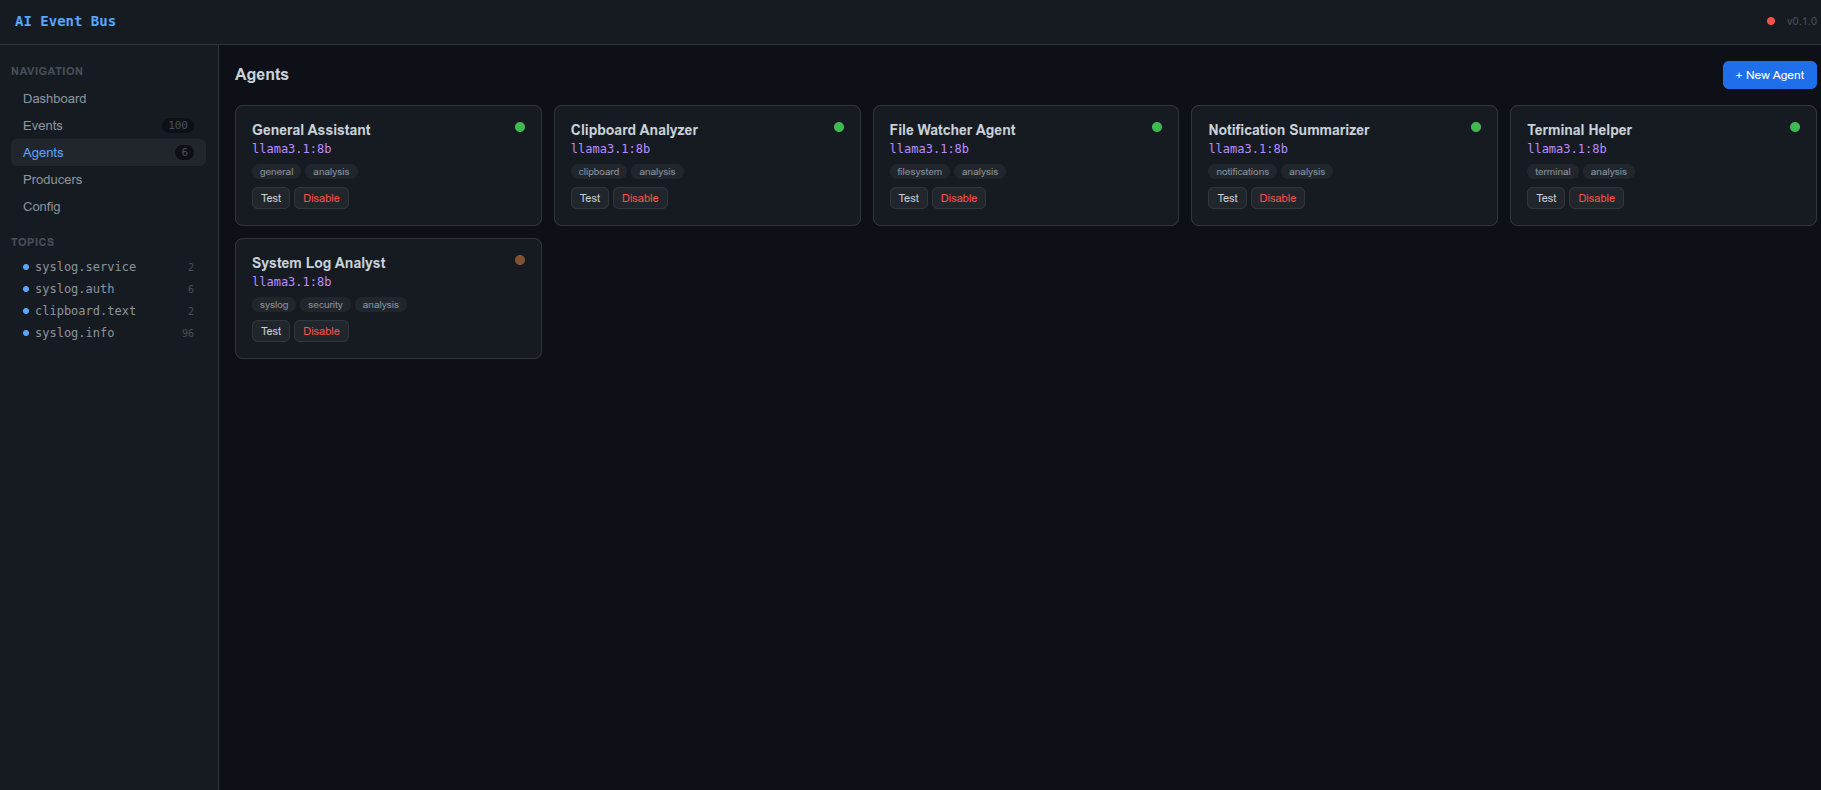
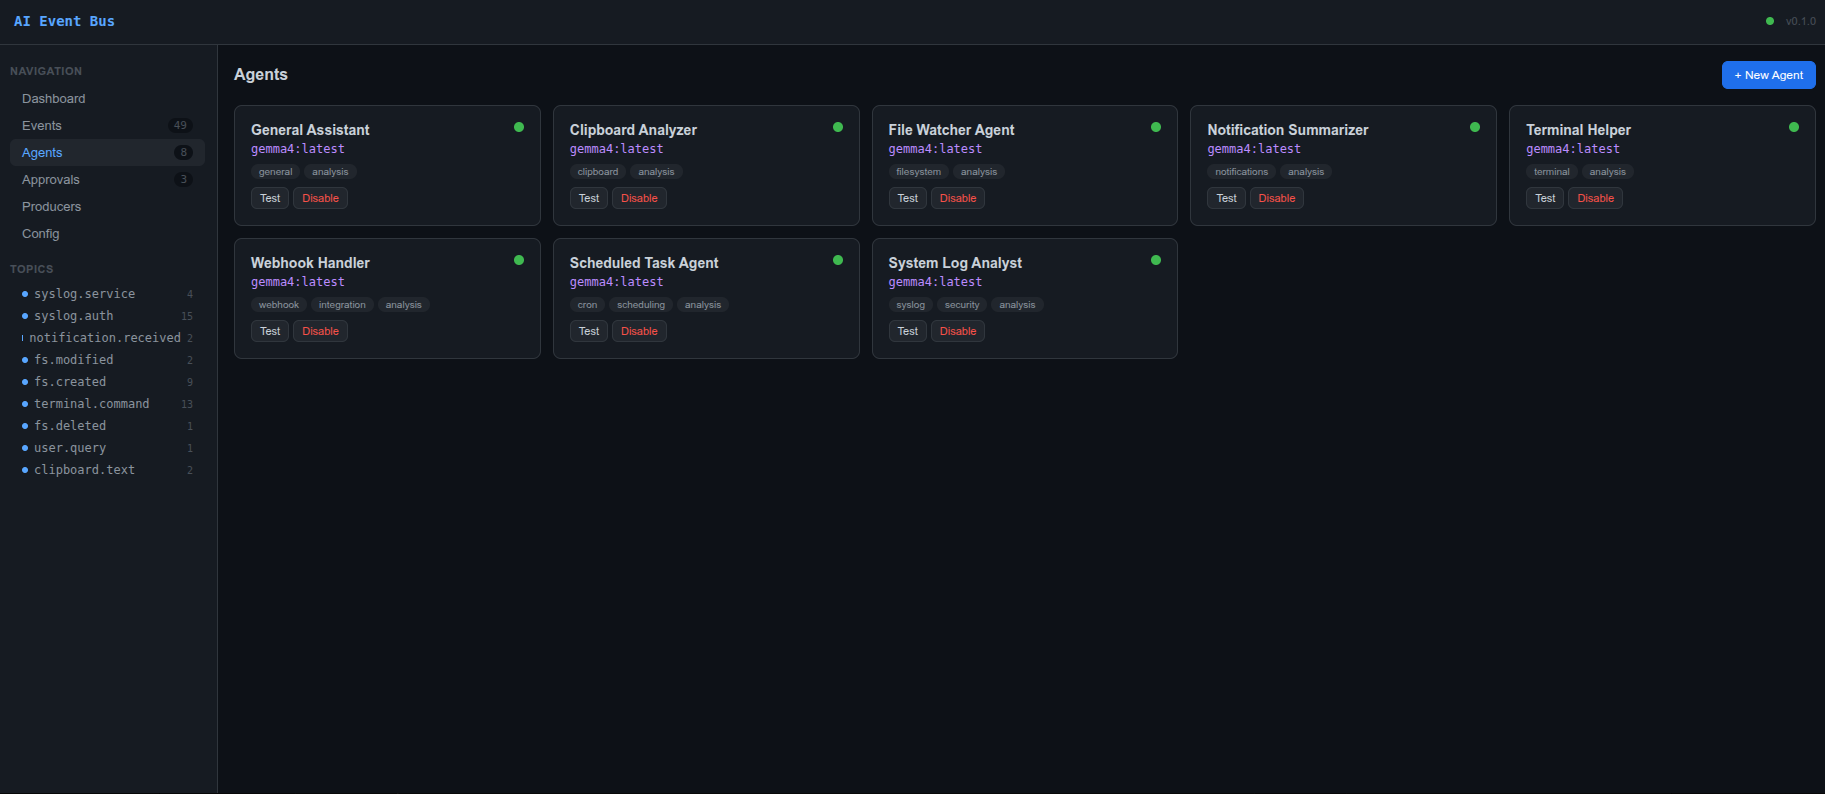
Update docs to reflect gemma4 model, auto-seeded agents, and add missing executor handlers
- getting-started.md: gemma3 → gemma4, document auto-seeded agents/rules, simplify setup flow
- developer-guide.md: add http_request and tool_call to executor built-in handlers list
- Update screenshots

diff --git a/docs/getting-started.md b/docs/getting-started.md
@@ -7,7 +7,7 @@ This guide walks you through installing aiventbus, creating your first agent, an
 - **Python 3.11+**
 - **Ollama** running locally — install from [ollama.com](https://ollama.com), then pull a model:
   ```bash
-  ollama pull gemma3:latest
+  ollama pull gemma4:latest
   ```
 
 ## Installation
@@ -33,40 +33,17 @@ Clipboard producer started
 
 The daemon is now running. Open [http://localhost:8420](http://localhost:8420) to see the web dashboard.
 
-## Create your first agent
+On first run, the bus automatically seeds **8 default agents** (General Assistant, Clipboard Analyzer, File Watcher Agent, Notification Summarizer, Terminal Helper, System Log Analyst, Webhook Handler, Scheduled Task Agent) and **9 routing rules** mapping topic patterns to agents. You're ready to go immediately.
 
-An agent is an LLM that processes events. Let's create one:
+Check the auto-seeded system knowledge:
 
 ```bash
 aibus knowledge list --prefix system.
 ```
 
-You'll see the system already knows about your machine (hostname, GPU, memory, OS). Now create an agent:
+You'll see the system already knows about your machine (hostname, GPU, memory, OS).
 
-```bash
-curl -X POST http://localhost:8420/api/v1/agents \
-  -H 'Content-Type: application/json' \
-  -d '{
-    "name": "assistant",
-    "model": "gemma3:latest",
-    "description": "General-purpose assistant for answering questions",
-    "system_prompt": "You are a helpful AI assistant running on the user machine. Answer concisely."
-  }'
-```
-
-## Create a routing rule
-
-Tell the bus which events go to your agent:
-
-```bash
-curl -X POST http://localhost:8420/api/v1/routing-rules \
-  -H 'Content-Type: application/json' \
-  -d '{
-    "name": "user queries to assistant",
-    "topic_pattern": "user.*",
-    "consumer_id": "agent_assistant"
-  }'
-```
+> **Note:** To disable auto-seeding, set `seed_defaults: false` in `config.yaml`. You can also create additional agents and routing rules manually via the API — see the [Developer Guide](developer-guide.md).
 
 ## Ask a question
 
@@ -85,12 +62,12 @@ You can also ask from the web dashboard (publish an event with topic `user.query
 ```
 1. You typed a question
 2. CLI published a user.query event to the bus
-3. Routing rule matched it to your assistant agent
+3. Default routing rule matched `user.*` to the General Assistant agent
 4. Context engine built a prompt with:
    - Agent's system prompt
    - System facts from knowledge store (your GPU, OS, memory)
    - The question
-5. Agent called Ollama (gemma3), streamed the response
+5. Agent called Ollama (gemma4), streamed the response
 6. Response parsed as structured JSON
 7. CLI displayed the summary
 ```
@@ -117,25 +94,18 @@ producers:
 
 Restart the daemon. Now file changes in Downloads and terminal commands will flow through the bus.
 
-## Add routing rules for producers
+## Routing rules
+
+The default seeder already creates routing rules for all built-in producers (`clipboard.*`, `fs.*`, `notification.*`, `terminal.*`, `syslog.*`, `webhook.*`, `cron.*`). To add custom rules:
 
 ```bash
-# Route file events to a triage agent
+# Route custom topic to a specific agent
 curl -X POST http://localhost:8420/api/v1/routing-rules \
   -H 'Content-Type: application/json' \
   -d '{
-    "name": "file events",
-    "topic_pattern": "fs.*",
-    "consumer_id": "agent_assistant"
-  }'
-
-# Route clipboard events
-curl -X POST http://localhost:8420/api/v1/routing-rules \
-  -H 'Content-Type: application/json' \
-  -d '{
-    "name": "clipboard events",
-    "topic_pattern": "clipboard.*",
-    "consumer_id": "agent_assistant"
+    "name": "my custom rule",
+    "topic_pattern": "my.custom.*",
+    "consumer_id": "<agent_id>"
   }'
 ```
 
@@ -146,7 +116,7 @@ Instead of writing routing rules for everything, enable the LLM classifier. It a
 ```yaml
 classifier:
   enabled: true
-  model: "gemma3:latest"
+  model: "gemma4:latest"
 ```
 
 ## Desktop widget

diff --git a/docs/developer-guide.md b/docs/developer-guide.md
@@ -140,7 +140,9 @@ Action type registry. Each action type has a handler function. Built-in handlers
 - `file_read` / `file_write` / `file_delete` → pathlib operations
 - `notify` → `notify-send` subprocess
 - `open_app` → `xdg-open`
+- `http_request` → `httpx.AsyncClient` with configurable timeout and response size cap
 - `set_knowledge` / `get_knowledge` → knowledge store operations
+- `tool_call` → dispatches to registered `ToolBackend` plugins (e.g. Playwright)
 
 Register custom handlers: `executor.register("my_action", handler_fn)`
 
